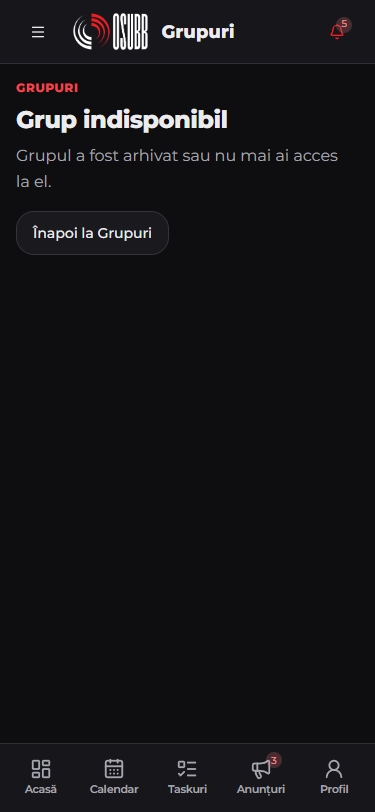
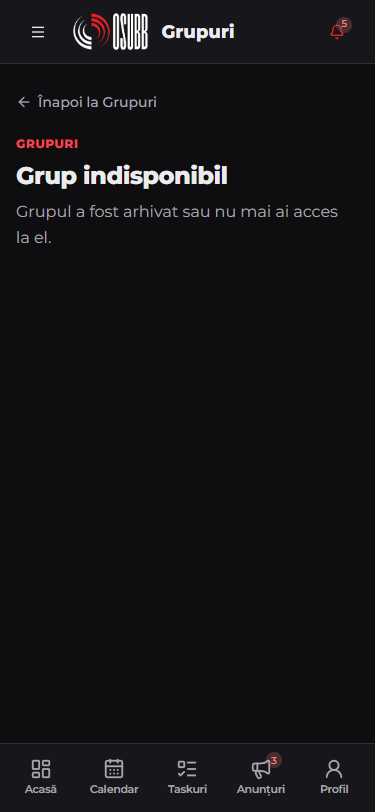
fix(grupuri): the unavailable Group uses the shared back link (#852)
CodeRabbit: the fixed /grupuri button ignored state.from; the BackLink
already falls back to Înapoi la Grupuri.

Changed region(s): [[0.0293, 0.0924, 0.9093, 0.3079]]

diff --git a/app/src/screens/groups/MemberGroupScreen.tsx b/app/src/screens/groups/MemberGroupScreen.tsx
@@ -69,18 +69,11 @@ export default function MemberGroupScreen() {
   if (!group)
     return (
       <Page>
+        {back}
         <PageHeader
           eyebrow="Grupuri"
           title="Grup indisponibil"
           description="Grupul a fost arhivat sau nu mai ai acces la el."
-          actions={
-            <Link
-              to="/grupuri"
-              className={cn(buttonVariants({ variant: 'outline' }))}
-            >
-              Înapoi la Grupuri
-            </Link>
-          }
         />
       </Page>
     );

diff --git a/app/src/screens/groups/GroupsScreen.test.tsx b/app/src/screens/groups/GroupsScreen.test.tsx
@@ -562,6 +562,7 @@ it('the back link falls back to Grupuri, and prefers state.from (A33)', () => {
 });
 it('an unavailable Group says why and leads back to Grupuri (D23)', () => {
   detail(4040);
+  expect(screen.getAllByRole('link')).toHaveLength(1);
   expect(
     screen.getByRole('heading', { name: 'Grup indisponibil' }),
   ).toBeVisible();
